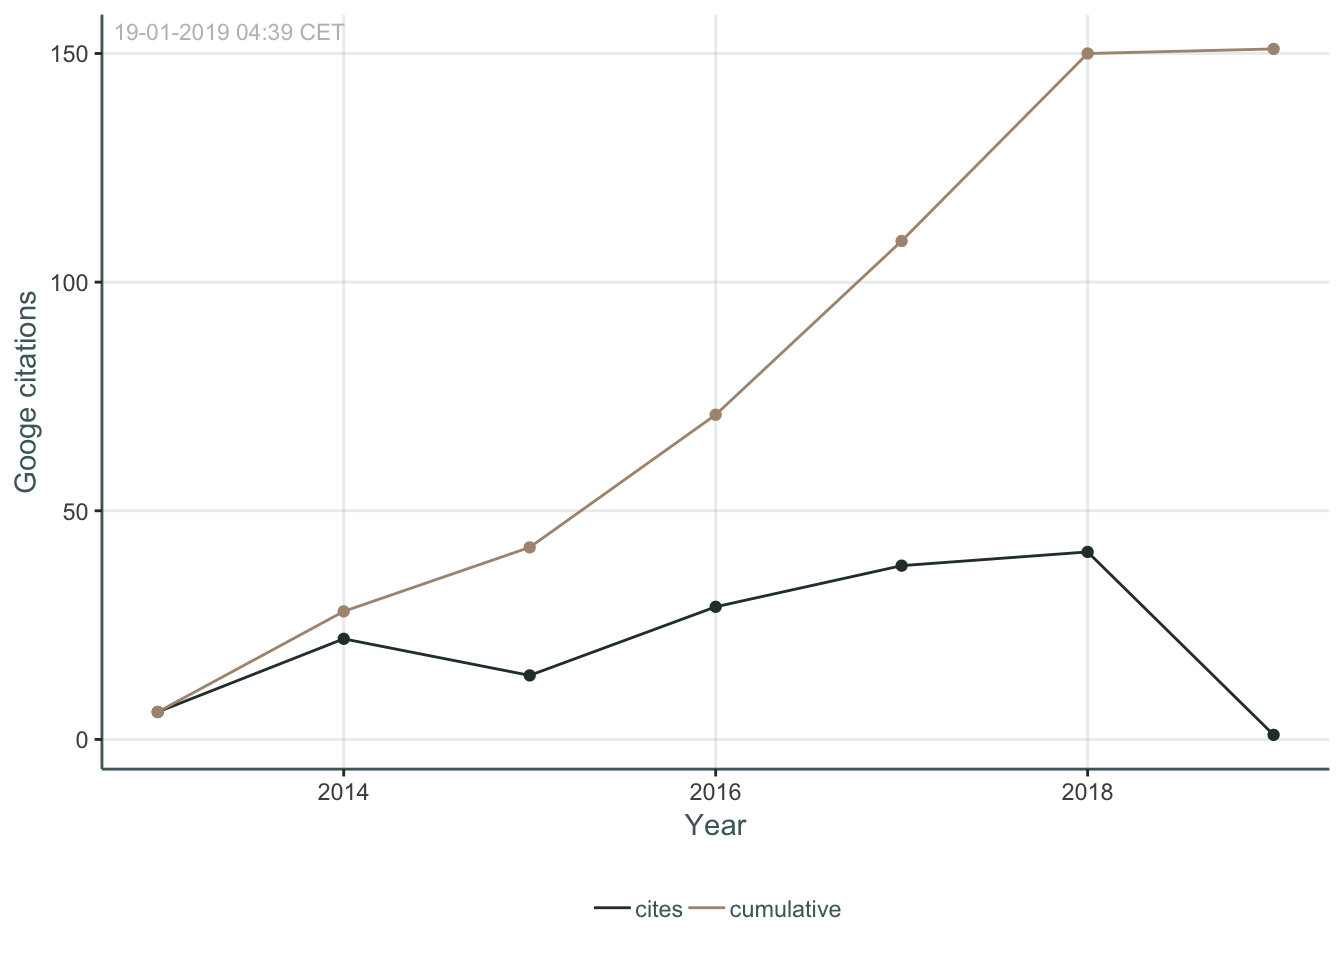
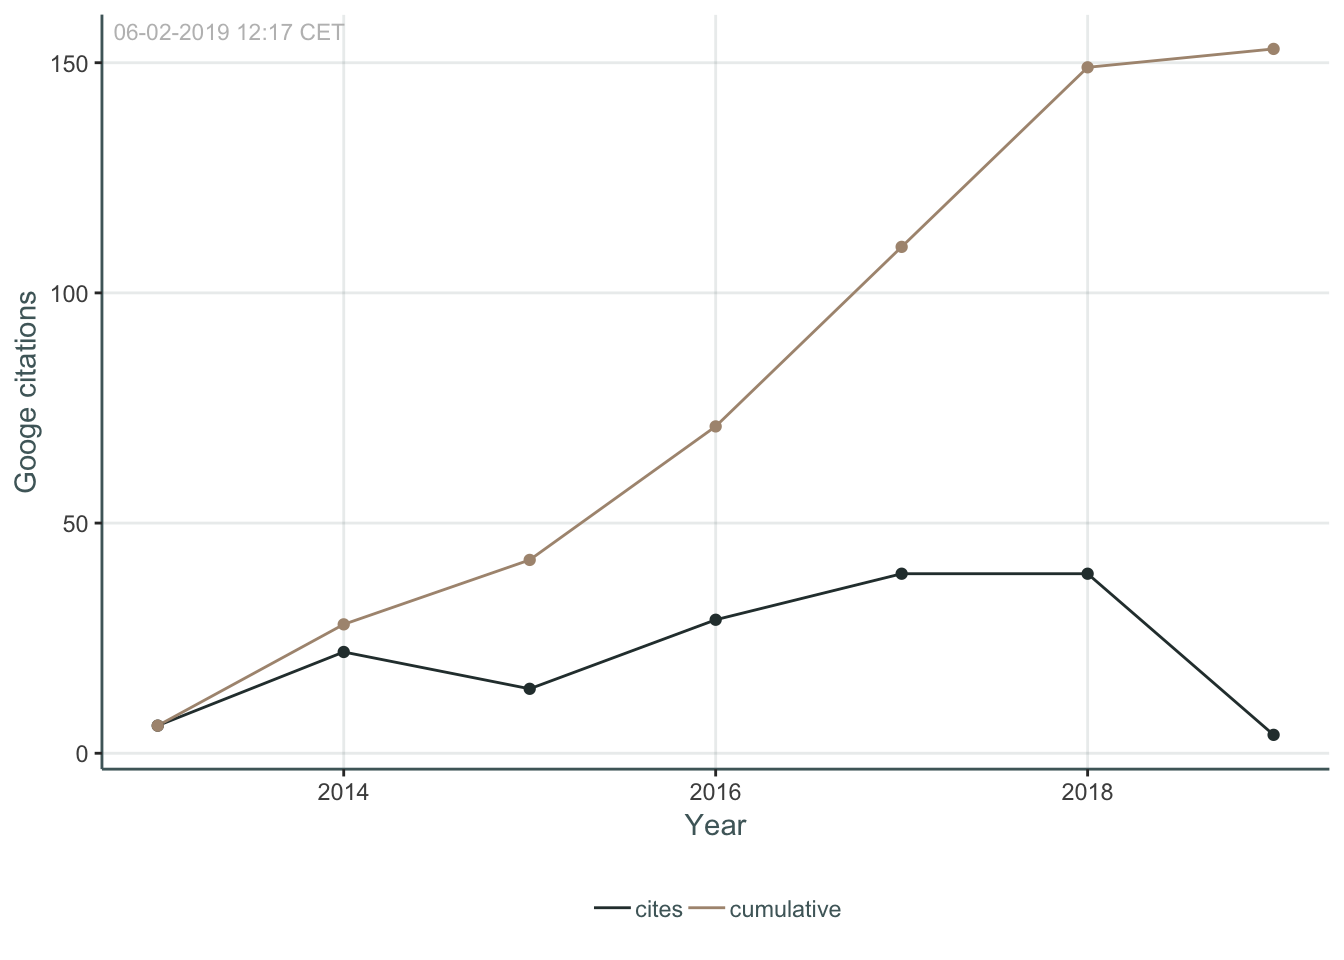
update aboutme

diff --git a/content/aboutme/aboutme.html b/content/aboutme/aboutme.html
@@ -1,6 +1,6 @@
 ---
 pagetitle: "aboutmes"
-date: '2019-01-19'
+date: '2019-02-06'
 ---
 
 
@@ -211,5 +211,5 @@ date: '2019-01-19'
 <div id="publications-citations" class="section level3">
 <h3>Publications &amp; Citations</h3>
 <p><img src="/aboutme/aboutme_files/figure-html/pubPlot-1.png" width="672" /></p>
-<p>KB Walhovd, AM Fjell, R Westerhausen, L Nyberg, KP Ebmeier, … (2018) Healthy minds 0–100 years: Optimising the use of European brain imaging cohorts (“Lifebrain”) <a href="https://scholar.google.no/scholar?oi=bibs&amp;hl=en&amp;cluster=761121902853026504"><em>European psychiatry</em></a> <em>50, 47-56</em><br><br>A Fjell, CH Chen, D Sederevicius, MH Sneve, H Grydeland, SK Krogsrud, … (2018) Continuity and discontinuity in human cortical development and change from embryonic stages to old age <a href="https://scholar.google.no/scholar?oi=bibs&amp;hl=en&amp;cluster=12452401251901497050"><em>bioRxiv</em></a> <em>329680</em><br><br>D Vidal-Piñeiro, MH Sneve, LH Nyberg, AM <strong>Mowinckel</strong>, D Sederevicius, … (2018) Maintained Frontal Activity Underlies High Memory Function Over 8 Years in Aging <em>Cerebral Cortex</em> <em>1, 13</em><br><br>D Vidal-Piñeiro, SH Markus, L Nyberg, AM <strong>Mowinckel</strong>, D Sederevicius, … (2018) TESTING MAINTENANCE AND COMPENSATION NOTIONS IN NORMAL AGING: AGE-RELATED CORRELATES OF ASSOCIATIVE ENCODING SUCCESS <em>Alzheimer’s &amp; Dementia: The Journal of the Alzheimer’s Association</em> <em>14 (7), P854</em><br><br>AM <strong>Mowinckel</strong>, D Alnæs, ML Pedersen, S Ziegler, M Fredriksen, … (2017) Increased default-mode variability is related to reduced task-performance and is evident in adults with ADHD <a href="https://scholar.google.no/scholar?oi=bibs&amp;hl=en&amp;cluster=15217082774564824421"><em>NeuroImage: Clinical</em></a> <em>16, 369-382</em><br><br>S Ziegler, ML Pedersen, AM <strong>Mowinckel</strong>, G Biele (2016) Modelling ADHD: A review of ADHD theories through their predictions for computational models of decision-making and reinforcement learning <a href="https://scholar.google.no/scholar?oi=bibs&amp;hl=en&amp;cluster=11108308558386894134"><em>Neuroscience &amp; Biobehavioral Reviews</em></a> <em>71, 633-656</em><br><br>A <strong>Mowinckel</strong> (2016) Chronic fatigue syndrome and experience with the Lightning Process <em>TIDSSKRIFT FOR DEN NORSKE LAEGEFORENING</em> <em>136 (7), 588-588</em><br><br>AM <strong>Mowinckel</strong>, ML Pedersen, E Eilertsen, G Biele (2015) A meta-analysis of decision-making and attention in adults with ADHD <a href="https://scholar.google.no/scholar?oi=bibs&amp;hl=en&amp;cluster=9967029451223534628"><em>Journal of attention disorders</em></a> <em>19 (5), 355-367</em><br><br>AM <strong>Mowinckel</strong>, T Espeseth, LT Westlye (2012) Network-specific effects of age and in-scanner subject motion: a resting-state fMRI study of 238 healthy adults <a href="https://scholar.google.no/scholar?oi=bibs&amp;hl=en&amp;cluster=13651232777638540310"><em>Neuroimage</em></a> <em>63 (3), 1364-1373</em></p>
+<p>KB Walhovd, AM Fjell, R Westerhausen, L Nyberg, KP Ebmeier, … (2018) Healthy minds 0–100 years: Optimising the use of European brain imaging cohorts (“Lifebrain”) <a href="https://scholar.google.no/scholar?oi=bibs&amp;hl=en&amp;cluster=761121902853026504"><em>European psychiatry</em></a> <em>50, 47-56</em><br><br>A Fjell, CH Chen, D Sederevicius, MH Sneve, H Grydeland, SK Krogsrud, … (2018) Continuity and discontinuity in human cortical development and change from embryonic stages to old age <a href="https://scholar.google.no/scholar?oi=bibs&amp;hl=en&amp;cluster=12452401251901497050"><em>bioRxiv</em></a> <em>329680</em><br><br>D Vidal-Piñeiro, MH Sneve, LH Nyberg, AM <strong>Mowinckel</strong>, D Sederevicius, … (2018) Maintained Frontal Activity Underlies High Memory Function Over 8 Years in Aging <em>Cerebral Cortex</em> <em>1, 13</em><br><br>D Vidal-Piñeiro, SH Markus, L Nyberg, AM <strong>Mowinckel</strong>, D Sederevicius, … (2018) TESTING MAINTENANCE AND COMPENSATION NOTIONS IN NORMAL AGING: AGE-RELATED CORRELATES OF ASSOCIATIVE ENCODING SUCCESS <em>Alzheimer’s &amp; Dementia: The Journal of the Alzheimer’s Association</em> <em>14 (7), P854</em><br><br>AM <strong>Mowinckel</strong>, D Alnæs, ML Pedersen, S Ziegler, M Fredriksen, … (2017) Increased default-mode variability is related to reduced task-performance and is evident in adults with ADHD <a href="https://scholar.google.no/scholar?oi=bibs&amp;hl=en&amp;cluster=15217082774564824421"><em>NeuroImage: Clinical</em></a> <em>16, 369-382</em><br><br>AM <strong>Mowinckel</strong>, D Alnæs, ML Pedersen, S Ziegler, M Fredriksen, … (2017) King’s Research Portal <em>NeuroImage: Clinical</em> <em>16, 369-382</em><br><br>S Ziegler, ML Pedersen, AM <strong>Mowinckel</strong>, G Biele (2016) Modelling ADHD: A review of ADHD theories through their predictions for computational models of decision-making and reinforcement learning <a href="https://scholar.google.no/scholar?oi=bibs&amp;hl=en&amp;cluster=11108308558386894134"><em>Neuroscience &amp; Biobehavioral Reviews</em></a> <em>71, 633-656</em><br><br>A <strong>Mowinckel</strong> (2016) Chronic fatigue syndrome and experience with the Lightning Process <em>TIDSSKRIFT FOR DEN NORSKE LAEGEFORENING</em> <em>136 (7), 588-588</em><br><br>AM <strong>Mowinckel</strong>, ML Pedersen, E Eilertsen, G Biele (2015) A meta-analysis of decision-making and attention in adults with ADHD <a href="https://scholar.google.no/scholar?oi=bibs&amp;hl=en&amp;cluster=9967029451223534628"><em>Journal of attention disorders</em></a> <em>19 (5), 355-367</em><br><br>AM <strong>Mowinckel</strong>, T Espeseth, LT Westlye (2012) Network-specific effects of age and in-scanner subject motion: a resting-state fMRI study of 238 healthy adults <a href="https://scholar.google.no/scholar?oi=bibs&amp;hl=en&amp;cluster=13651232777638540310"><em>Neuroimage</em></a> <em>63 (3), 1364-1373</em></p>
 </div>

diff --git a/public/aboutme/aboutme/index.html b/public/aboutme/aboutme/index.html
@@ -358,7 +358,7 @@ ga('send', 'pageview');
 <div id="publications-citations" class="section level3">
 <h3>Publications &amp; Citations</h3>
 <p><img src="/aboutme/aboutme_files/figure-html/pubPlot-1.png" width="672" /></p>
-<p>KB Walhovd, AM Fjell, R Westerhausen, L Nyberg, KP Ebmeier, … (2018) Healthy minds 0–100 years: Optimising the use of European brain imaging cohorts (“Lifebrain”) <a href="https://scholar.google.no/scholar?oi=bibs&amp;hl=en&amp;cluster=761121902853026504"><em>European psychiatry</em></a> <em>50, 47-56</em><br><br>A Fjell, CH Chen, D Sederevicius, MH Sneve, H Grydeland, SK Krogsrud, … (2018) Continuity and discontinuity in human cortical development and change from embryonic stages to old age <a href="https://scholar.google.no/scholar?oi=bibs&amp;hl=en&amp;cluster=12452401251901497050"><em>bioRxiv</em></a> <em>329680</em><br><br>D Vidal-Piñeiro, MH Sneve, LH Nyberg, AM <strong>Mowinckel</strong>, D Sederevicius, … (2018) Maintained Frontal Activity Underlies High Memory Function Over 8 Years in Aging <em>Cerebral Cortex</em> <em>1, 13</em><br><br>D Vidal-Piñeiro, SH Markus, L Nyberg, AM <strong>Mowinckel</strong>, D Sederevicius, … (2018) TESTING MAINTENANCE AND COMPENSATION NOTIONS IN NORMAL AGING: AGE-RELATED CORRELATES OF ASSOCIATIVE ENCODING SUCCESS <em>Alzheimer’s &amp; Dementia: The Journal of the Alzheimer’s Association</em> <em>14 (7), P854</em><br><br>AM <strong>Mowinckel</strong>, D Alnæs, ML Pedersen, S Ziegler, M Fredriksen, … (2017) Increased default-mode variability is related to reduced task-performance and is evident in adults with ADHD <a href="https://scholar.google.no/scholar?oi=bibs&amp;hl=en&amp;cluster=15217082774564824421"><em>NeuroImage: Clinical</em></a> <em>16, 369-382</em><br><br>S Ziegler, ML Pedersen, AM <strong>Mowinckel</strong>, G Biele (2016) Modelling ADHD: A review of ADHD theories through their predictions for computational models of decision-making and reinforcement learning <a href="https://scholar.google.no/scholar?oi=bibs&amp;hl=en&amp;cluster=11108308558386894134"><em>Neuroscience &amp; Biobehavioral Reviews</em></a> <em>71, 633-656</em><br><br>A <strong>Mowinckel</strong> (2016) Chronic fatigue syndrome and experience with the Lightning Process <em>TIDSSKRIFT FOR DEN NORSKE LAEGEFORENING</em> <em>136 (7), 588-588</em><br><br>AM <strong>Mowinckel</strong>, ML Pedersen, E Eilertsen, G Biele (2015) A meta-analysis of decision-making and attention in adults with ADHD <a href="https://scholar.google.no/scholar?oi=bibs&amp;hl=en&amp;cluster=9967029451223534628"><em>Journal of attention disorders</em></a> <em>19 (5), 355-367</em><br><br>AM <strong>Mowinckel</strong>, T Espeseth, LT Westlye (2012) Network-specific effects of age and in-scanner subject motion: a resting-state fMRI study of 238 healthy adults <a href="https://scholar.google.no/scholar?oi=bibs&amp;hl=en&amp;cluster=13651232777638540310"><em>Neuroimage</em></a> <em>63 (3), 1364-1373</em></p>
+<p>KB Walhovd, AM Fjell, R Westerhausen, L Nyberg, KP Ebmeier, … (2018) Healthy minds 0–100 years: Optimising the use of European brain imaging cohorts (“Lifebrain”) <a href="https://scholar.google.no/scholar?oi=bibs&amp;hl=en&amp;cluster=761121902853026504"><em>European psychiatry</em></a> <em>50, 47-56</em><br><br>A Fjell, CH Chen, D Sederevicius, MH Sneve, H Grydeland, SK Krogsrud, … (2018) Continuity and discontinuity in human cortical development and change from embryonic stages to old age <a href="https://scholar.google.no/scholar?oi=bibs&amp;hl=en&amp;cluster=12452401251901497050"><em>bioRxiv</em></a> <em>329680</em><br><br>D Vidal-Piñeiro, MH Sneve, LH Nyberg, AM <strong>Mowinckel</strong>, D Sederevicius, … (2018) Maintained Frontal Activity Underlies High Memory Function Over 8 Years in Aging <em>Cerebral Cortex</em> <em>1, 13</em><br><br>D Vidal-Piñeiro, SH Markus, L Nyberg, AM <strong>Mowinckel</strong>, D Sederevicius, … (2018) TESTING MAINTENANCE AND COMPENSATION NOTIONS IN NORMAL AGING: AGE-RELATED CORRELATES OF ASSOCIATIVE ENCODING SUCCESS <em>Alzheimer’s &amp; Dementia: The Journal of the Alzheimer’s Association</em> <em>14 (7), P854</em><br><br>AM <strong>Mowinckel</strong>, D Alnæs, ML Pedersen, S Ziegler, M Fredriksen, … (2017) Increased default-mode variability is related to reduced task-performance and is evident in adults with ADHD <a href="https://scholar.google.no/scholar?oi=bibs&amp;hl=en&amp;cluster=15217082774564824421"><em>NeuroImage: Clinical</em></a> <em>16, 369-382</em><br><br>AM <strong>Mowinckel</strong>, D Alnæs, ML Pedersen, S Ziegler, M Fredriksen, … (2017) King’s Research Portal <em>NeuroImage: Clinical</em> <em>16, 369-382</em><br><br>S Ziegler, ML Pedersen, AM <strong>Mowinckel</strong>, G Biele (2016) Modelling ADHD: A review of ADHD theories through their predictions for computational models of decision-making and reinforcement learning <a href="https://scholar.google.no/scholar?oi=bibs&amp;hl=en&amp;cluster=11108308558386894134"><em>Neuroscience &amp; Biobehavioral Reviews</em></a> <em>71, 633-656</em><br><br>A <strong>Mowinckel</strong> (2016) Chronic fatigue syndrome and experience with the Lightning Process <em>TIDSSKRIFT FOR DEN NORSKE LAEGEFORENING</em> <em>136 (7), 588-588</em><br><br>AM <strong>Mowinckel</strong>, ML Pedersen, E Eilertsen, G Biele (2015) A meta-analysis of decision-making and attention in adults with ADHD <a href="https://scholar.google.no/scholar?oi=bibs&amp;hl=en&amp;cluster=9967029451223534628"><em>Journal of attention disorders</em></a> <em>19 (5), 355-367</em><br><br>AM <strong>Mowinckel</strong>, T Espeseth, LT Westlye (2012) Network-specific effects of age and in-scanner subject motion: a resting-state fMRI study of 238 healthy adults <a href="https://scholar.google.no/scholar?oi=bibs&amp;hl=en&amp;cluster=13651232777638540310"><em>Neuroimage</em></a> <em>63 (3), 1364-1373</em></p>
 </div>
 
             </div>
